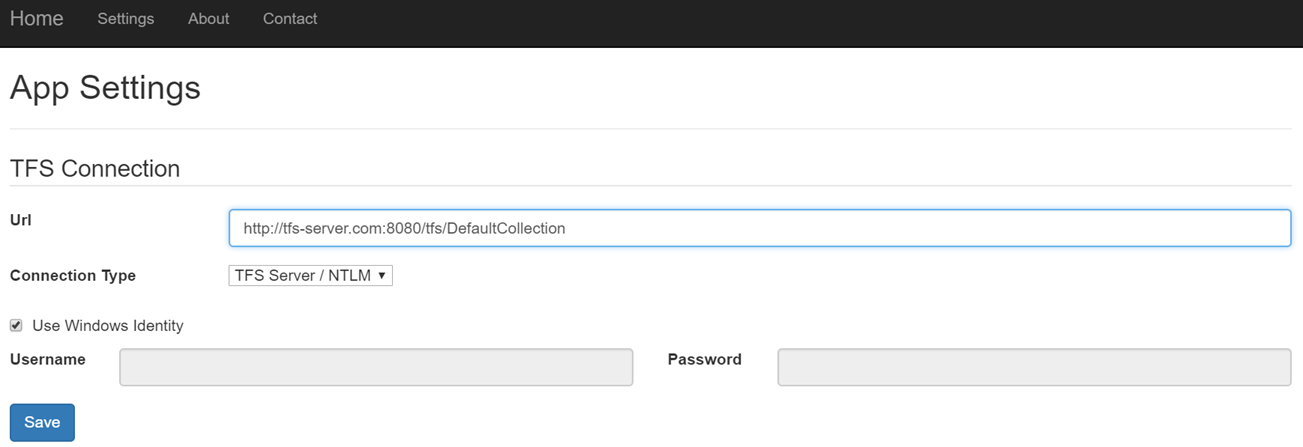
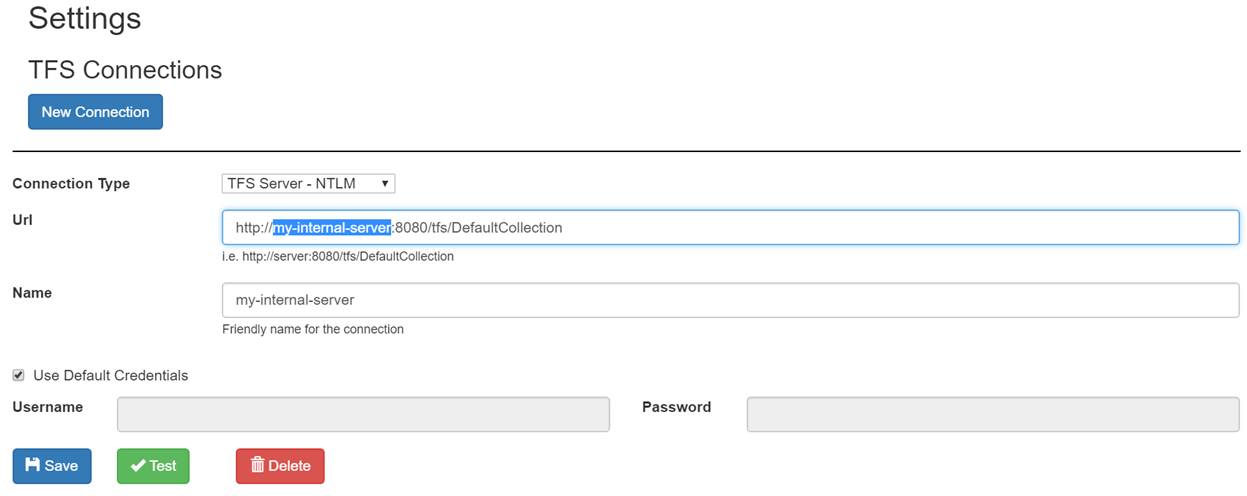
settings bug fixes and wiki screenshot updates

diff --git a/TfsStates/wwwroot/js/tfs-connection-item.js b/TfsStates/wwwroot/js/tfs-connection-item.js
@@ -72,6 +72,7 @@ function onConnectionTypeChange(element) {
     var type = element.value;
     var $urlExample = $root.find('.url-example');
     var $url = $root.find('.url');
+    var $useDefault = $defaultCredsRow.find('.use-default-credentials');
 
     if (type === typeNtlm) {
         $defaultCredsRow.show();
@@ -83,8 +84,7 @@ function onConnectionTypeChange(element) {
         var $user = $userCredsRow.find('.username');
         var $pass = $userCredsRow.find('.password');
 
-        if (!$user.val() && !$pass.val()) {
-            var $useDefault = $defaultCredsRow.find('.use-default-credentials');
+        if (!$user.val() && !$pass.val()) {            
             $useDefault.prop('checked', true);
             onWindowsIdentityChange($useDefault[0]);
         }
@@ -95,6 +95,7 @@ function onConnectionTypeChange(element) {
         $tokenRow.show();
         $urlExample.html('i.e. <em>https://dev.azure.com/org-name</em> &nbsp; or &nbsp; <em>https://domain.visualstudio.com</em>');
         $url.attr('placeholder', 'https://dev.azure.com/org-name');
+        $useDefault.prop('checked', false);
     }    
 }
 

diff --git a/TfsStates/Services/TfsSettingsService.cs b/TfsStates/Services/TfsSettingsService.cs
@@ -77,7 +77,7 @@ namespace TfsStates.Services
             string filename = await GetFilename();
             if (!File.Exists(filename)) return false;
 
-            var connections = await GetConnections();
+            var connections = await GetRawConnections() ?? new TfsKnownConnections();
             var connection = connections.Connections.FirstOrDefault(c => c.Id == connectionId);
 
             if (connection == null) return false;
